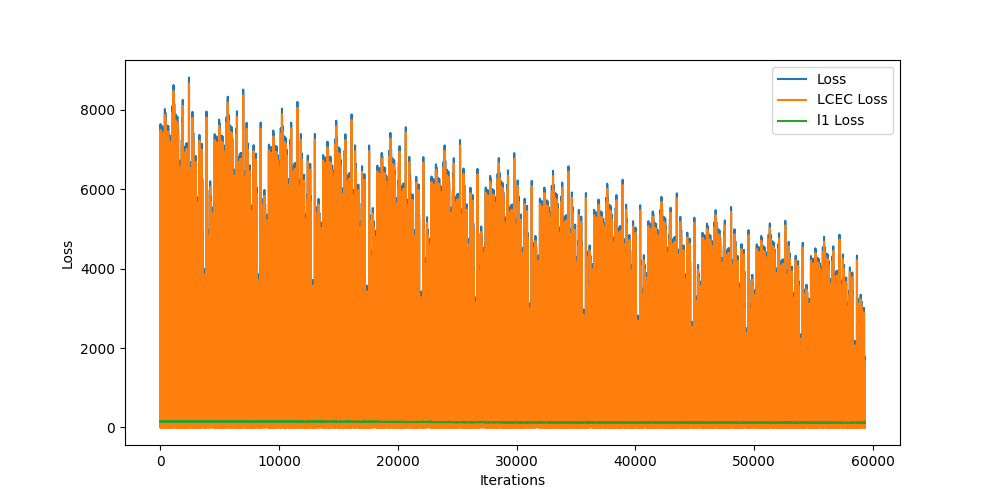
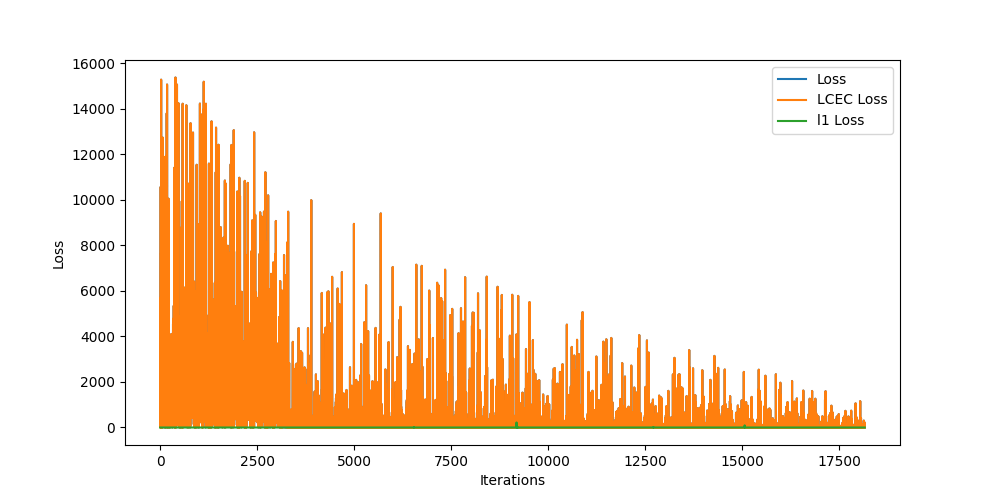
update of model_8
:100:

diff --git a/model_8.py b/model_8.py
@@ -131,7 +131,7 @@ for epoch in range(n_epochs):
         loss =  (criterion2(x_prime[0:2],batch[-1,0:2]) )   #+ criterion(x_prime,batch[-1,])))# see if focusing more on temperature loss and less on sporadic losses like wind prediction helps, ie use the transformer to estimate the current state for nontemp variables
         # loss += torch.max(prevloss / (loss.detach()+1),loss.detach() / (prevloss+1))
         # loss_a = torch.max(loss_lcec.detach() / (loss.detach()+1) ,loss.detach()/loss_lcec.detach()+1)
-        loss = torch.lgamma(loss) + loss_lcec + criterion(x_prime[0:],batch[-1,0:])
+        loss = torch.lgamma(1+loss) + loss_lcec + torch.lgamma(criterion(x_prime[0:],batch[-1,0:]))
         loss.backward()
         if torch.isnan(torch.cat([p.grad.view(-1) for p in model.parameters()])).any():
             print("NaN gradient detected. Saving the last valid model state.")
